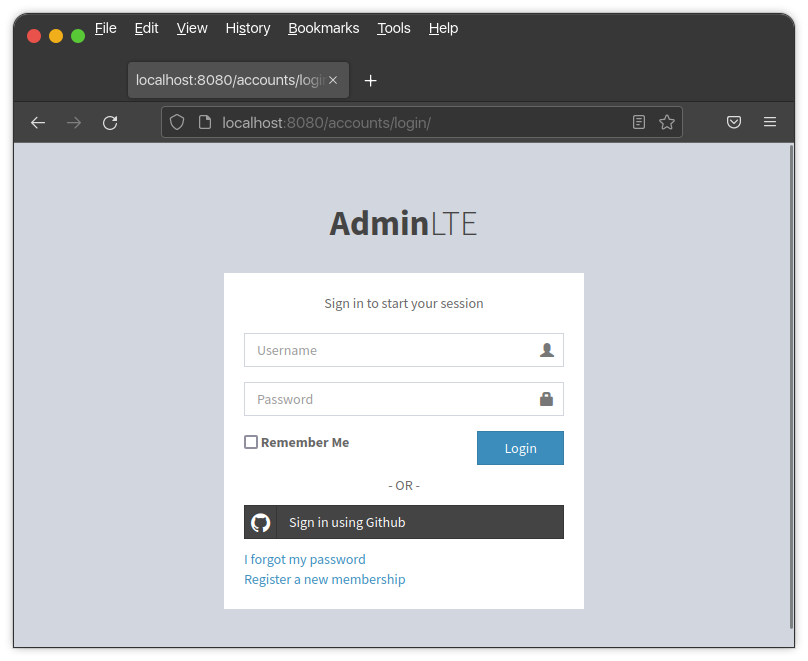
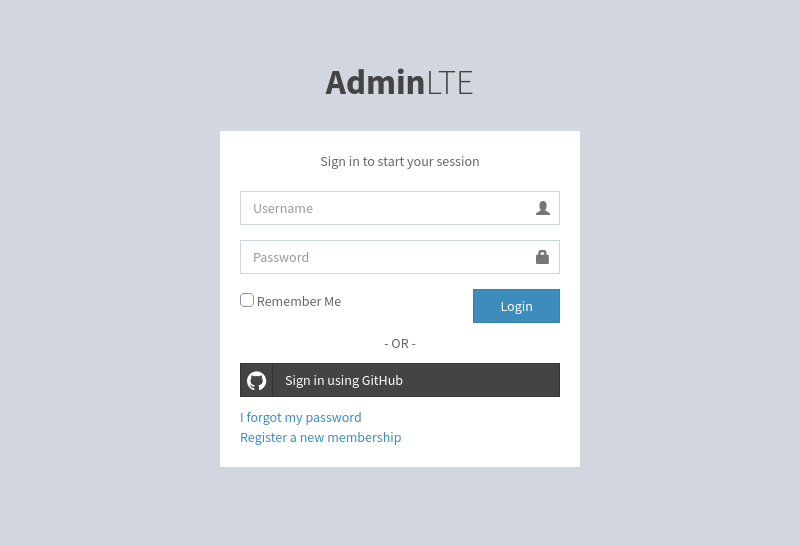
docs(templates): add template override examples with screenshots
Explain the two kinds of blocks: page blocks in adminlte2/base.html, and
blocks in the header, sidebar, and footer templates, which base.html
includes, so a page can't override them and a project overrides the
partial template instead.

Add examples, each with before and after screenshots: more changes to the
login page (title, instructions, and the register link), a page, a page's
stylesheets and scripts, the footer, the user dropdown, and the sidebar
user panel. The login page screenshots are retaken to match.

Fixes #20
Fixes #21

diff --git a/docs/source/templates/templates.rst b/docs/source/templates/templates.rst
@@ -30,62 +30,348 @@ found on
     **django-adminlte2-pdq** app should be listed before any Django apps.
 
 
-Example Customization
-=====================
+Overriding Blocks
+=================
 
-To show just how easy it can be to use and customize templates in the
-**Django-AdminLTE2-PDQ** package, we can show an example. The following three steps
-document customizing the login page **social links** section.
+To change part of a package template, create a template with the same path in
+one of your project's template folders, extend the package's template, and
+override only the blocks you want to change. Django finds your template first,
+and ``{% extends %}`` with the same path then loads the package's template
+underneath it. A block left empty removes its content, a block with content
+replaces it, and ``{{ block.super }}`` keeps the original content in place.
 
-First, we can see what this page looks like by default:
+The package's templates have two kinds of blocks:
+
+* `Page Blocks`_ are in the template that a page extends. A page overrides
+  them in its own template.
+* `Partial Blocks`_ are in the header, sidebar, and footer templates. A
+  project overrides them once, for every page.
+
+Each example below shows the page before and after the change.
+
+
+Page Blocks
+===========
+
+Page blocks are for the parts of a page that change from page to page: the
+title, the page header, the breadcrumbs, the content, and the page's own
+stylesheets and scripts. Pages extend ``adminlte2/base.html``, and the pages
+for users who aren't logged in, such as the login page, extend
+``adminlte2/base_anonymous.html``.
+
+
+The Login Page
+--------------
+
+The login page is ``registration/login.html``. By default, it looks like this:
 
 .. image:: ../../img/template/django-adminlte2-pdq-login-template-original.png
-    :alt: Original default login page that comes with Django-AdminLTE2-PDQ
+    :alt: The package's default login page
 
-
-To change this page, we can create a template to override the original behavior:
+To change it:
 
 1.  Create ``registration/login.html`` in one of your Django project's
     `template <https://docs.djangoproject.com/en/dev/ref/settings/#templates>`_
-    folders, defined via the project settings file.
-2.  Extend the packages default ``registration/login.html`` by adding the
-    following line:
+    folders.
+2.  Extend the package's ``registration/login.html``:
 
     .. code:: html+django
 
         {% extends "registration/login.html" %}
 
-3.  Override the ``social_auth_links`` block. An empty block will remove the
-    original content. Alternatively, a block with content will replace the
-    original content.
+3.  Override the blocks to change.
 
-    **Example of "Social Link" Section Removal**
+**Removing the social links**
 
-    .. code:: html+django
+An empty ``social_auth_links`` block removes the social login buttons:
 
-        {% block social_auth_links %}{% endblock social_auth_links %}
+.. code:: html+django
 
-    .. image:: ../../img/template/django-adminlte2-pdq-login-template-no-social.png
-        :alt: Updated login page with no social links
+    {% extends "registration/login.html" %}
 
-    **Example of "Social Link" Section Replacement**
+    {% block social_auth_links %}{% endblock social_auth_links %}
 
-    .. code:: html+django
+.. image:: ../../img/template/django-adminlte2-pdq-login-template-no-social.png
+    :alt: The login page without the social login buttons
 
-        {% block social_auth_links %}
-          <div class="social-auth-links text-center">
-            <p>- OR -</p>
-            <a href="#" class="btn btn-block btn-social btn-github btn-flat">
-              <i class="fa fa-github"></i>
-              Sign in using Github
-            </a>
-          </div>
-        {% endblock social_auth_links %}
+**Replacing the social links**
 
-    .. image:: ../../img/template/django-adminlte2-pdq-login-template-github.png
-        :alt: Updated login page with GitHub as the social link.
+A ``social_auth_links`` block with content replaces the buttons:
+
+.. code:: html+django
+
+    {% extends "registration/login.html" %}
+
+    {% block social_auth_links %}
+      <div class="social-auth-links text-center">
+        <p>- OR -</p>
+        <a href="#" class="btn btn-block btn-social btn-github btn-flat">
+          <i class="fa fa-github"></i>
+          Sign in using GitHub
+        </a>
+      </div>
+    {% endblock social_auth_links %}
+
+.. image:: ../../img/template/django-adminlte2-pdq-login-template-github.png
+    :alt: The login page with a GitHub sign-in button
+
+**Changing several parts**
+
+One template can override as many blocks as needed. This one changes the page
+title shown in the browser tab, changes the instructions, removes the social
+links, and removes the "Register a new membership" link, for a site that
+doesn't let users register themselves:
+
+.. code:: html+django
+
+    {% extends "registration/login.html" %}
+
+    {% block title %}Sign In | Example Company{% endblock title %}
+
+    {% block anonymous_form_instructions %}
+      <p class="login-box-msg">Sign in with your Example Company account</p>
+    {% endblock anonymous_form_instructions %}
+
+    {% block social_auth_links %}{% endblock social_auth_links %}
+
+    {% block anonymous_links %}
+      <a href="{% url 'password_reset' %}">I forgot my password</a>
+    {% endblock anonymous_links %}
+
+.. image:: ../../img/template/django-adminlte2-pdq-login-template-more.png
+    :alt: The login page with new instructions, no social links, and no register link
+
+The other pages for users who aren't logged in, such as the password reset
+pages, extend ``adminlte2/base_anonymous.html`` and have the same blocks.
 
 
-Reminder to reference the
-`GitHub files <https://github.com/DJBarnes/django-adminlte2-pdq/tree/main/adminlte2_pdq/templates>`_
-to see all possible package templates that can be overridden.
+A Page
+------
+
+A page template extends ``adminlte2/base.html`` and overrides its page
+blocks. With no blocks overridden, a page has the header, sidebar, and footer,
+and nothing else:
+
+.. code:: html+django
+
+    {% extends "adminlte2/base.html" %}
+
+.. image:: ../../img/template/django-adminlte2-pdq-page-original.png
+    :alt: A page with no blocks overridden
+
+This page sets the title shown in the browser tab, the page name and
+description, the breadcrumbs, and the content:
+
+**reports/monthly_report.html**
+
+.. code:: html+django
+
+    {% extends "adminlte2/base.html" %}
+
+    {% block title %}Monthly Report | Example Company{% endblock title %}
+
+    {% block page_name %}Monthly Report{% endblock page_name %}
+
+    {% block page_description %}November 2026{% endblock page_description %}
+
+    {% block breadcrumbs %}
+      <ol class="breadcrumb">
+        <li><a href="{% url 'adminlte2_pdq:home' %}"><i class="fa fa-dashboard"></i> Home</a></li>
+        <li class="active">Monthly Report</li>
+      </ol>
+    {% endblock breadcrumbs %}
+
+    {% block content %}
+      <div class="box box-primary">
+        <div class="box-header with-border">
+          <h3 class="box-title">Orders</h3>
+        </div>
+        <div class="box-body">
+          <p class="report-total">1,204</p>
+          <p id="report-updated"></p>
+        </div>
+      </div>
+    {% endblock content %}
+
+.. image:: ../../img/template/django-adminlte2-pdq-page-custom.png
+    :alt: The monthly report page with a title, breadcrumbs, and content
+
+To show a page in the sidebar, add it to the menu (see :doc:`../menu/general_information`).
+
+
+A Page's Stylesheets and Scripts
+--------------------------------
+
+The ``page_stylesheets`` block is in the page's ``<head>``, after the
+package's stylesheets, so its styles win. The ``page_javascript_body`` block
+is at the end of the ``<body>``, after the page's content. Both are empty in
+``adminlte2/base.html``. ``{{ block.super }}`` keeps whatever a parent
+template puts in them, so the page still works if it later extends a project
+template that adds its own.
+
+These blocks, added to the monthly report page above, make the total larger
+and show when the page was loaded:
+
+**reports/monthly_report.html**
+
+.. code:: html+django
+
+    {% extends "adminlte2/base.html" %}
+    {% load static %}
+
+    {# The blocks from the previous example. #}
+
+    {% block page_stylesheets %}
+      {{ block.super }}
+      <link rel="stylesheet" href="{% static 'reports/css/report.css' %}">
+    {% endblock page_stylesheets %}
+
+    {% block page_javascript_body %}
+      {{ block.super }}
+      <script src="{% static 'reports/js/report.js' %}"></script>
+    {% endblock page_javascript_body %}
+
+**reports/css/report.css**
+
+.. code:: css
+
+    .report-total {
+      font-size: 3em;
+      font-weight: bold;
+      color: #00a65a;
+    }
+
+**reports/js/report.js**
+
+.. code:: javascript
+
+    document.getElementById("report-updated").textContent = "Updated " + new Date().toLocaleDateString();
+
+Before, as in the previous example:
+
+.. image:: ../../img/template/django-adminlte2-pdq-page-custom.png
+    :alt: The monthly report page without its stylesheet and script
+
+After:
+
+.. image:: ../../img/template/django-adminlte2-pdq-page-assets.png
+    :alt: The monthly report page with a large green total and an updated date
+
+For styles and scripts on every page, override
+``adminlte2/partials/_styles.html`` or ``adminlte2/partials/_scripts.html``
+(see :ref:`configuration/front_end_styling:Template Blocks`).
+
+
+Partial Blocks
+==============
+
+The header, sidebar, and footer are in partial templates, which
+``adminlte2/base.html`` includes:
+
+* ``adminlte2/partials/_main_header.html``
+* ``adminlte2/partials/_main_sidebar.html``
+* ``adminlte2/partials/_main_footer.html``
+
+Django renders an included template on its own, with no access to the blocks
+of the template that includes it. So a page template that overrides a block
+from a partial, such as ``version_number``, has no effect. To change one of
+these blocks, override the partial template itself. The change applies to
+every page.
+
+A page can still replace a whole partial: ``adminlte2/base.html`` includes
+each one inside a block (``nav_header``, ``nav_sidebar``, and ``nav_footer``),
+so a page can override that block to include a different template, or leave
+it empty to remove the header, sidebar, or footer from that page.
+
+
+The Footer
+----------
+
+The footer shows a copyright with the current year, and a version number that
+defaults to 0.1:
+
+.. image:: ../../img/template/django-adminlte2-pdq-footer-original.png
+    :alt: The default footer
+
+Its blocks are in ``adminlte2/partials/_main_footer.html``, so override that
+template. This one sets the copyright text and the version number on every
+page:
+
+**adminlte2/partials/_main_footer.html**
+
+.. code:: html+django
+
+    {% extends "adminlte2/partials/_main_footer.html" %}
+
+    {% block legal %}
+      <strong>Copyright &copy; {% now "Y" %} Example Company.</strong> All rights reserved.
+    {% endblock legal %}
+
+    {% block version_number %}2.4.1{% endblock version_number %}
+
+.. image:: ../../img/template/django-adminlte2-pdq-footer-custom.png
+    :alt: The footer with a company copyright and version 2.4.1
+
+
+The User Dropdown
+-----------------
+
+Clicking the user's name in the top right opens a dropdown with "Change
+password" and "Sign out" buttons:
+
+.. image:: ../../img/template/django-adminlte2-pdq-user-dropdown-original.png
+    :alt: The default user dropdown
+
+Its blocks are in ``adminlte2/partials/_main_header.html``. This one replaces
+the "Change password" button with a "Profile" button, for a site whose profile
+page links to the password change page. Here, ``profile`` is the URL name of
+your project's profile view:
+
+**adminlte2/partials/_main_header.html**
+
+.. code:: html+django
+
+    {% extends "adminlte2/partials/_main_header.html" %}
+
+    {% block user_footer_left_button %}
+      <div class="pull-left">
+        <a href="{% url 'profile' %}" class="btn btn-default btn-flat">Profile</a>
+      </div>
+    {% endblock user_footer_left_button %}
+
+.. image:: ../../img/template/django-adminlte2-pdq-user-dropdown-custom.png
+    :alt: The user dropdown with a Profile button
+
+The dropdown only has room for two buttons side by side. A third one wraps
+onto a new line.
+
+
+The Sidebar User Panel
+----------------------
+
+The top of the sidebar shows the user's picture and name:
+
+.. image:: ../../img/template/django-adminlte2-pdq-sidebar-original.png
+    :alt: The sidebar with the user panel
+
+Its blocks are in ``adminlte2/partials/_main_sidebar.html``. An empty
+``sb_user_panel`` block removes the panel, and the menu moves up:
+
+**adminlte2/partials/_main_sidebar.html**
+
+.. code:: html+django
+
+    {% extends "adminlte2/partials/_main_sidebar.html" %}
+
+    {% block sb_user_panel %}{% endblock sb_user_panel %}
+
+.. image:: ../../img/template/django-adminlte2-pdq-sidebar-custom.png
+    :alt: The sidebar without the user panel
+
+
+All Templates and Blocks
+========================
+
+See the
+`package's templates on GitHub <https://github.com/DJBarnes/django-adminlte2-pdq/tree/main/adminlte2_pdq/templates>`_
+for every template and block that can be overridden.

diff --git a/docs/source/version_history.rst b/docs/source/version_history.rst
@@ -4,6 +4,13 @@ Version History
 Unreleased
 ==========
 
+* Documentation: the :doc:`templates/templates` page explains the difference
+  between page blocks and blocks in the header, sidebar, and footer
+  templates, which a page can't override. It has new examples for the login
+  page, a page, a page's stylesheets and scripts, the footer, the user
+  dropdown, and the sidebar user panel, each with before and after
+  screenshots.
+
 * Under the strict policy, the ``adminlte2_pdq.W001`` system check now lists
   function-based views without a decorator, as it already did class-based
   views without a mixin. It uses the same rules as the middleware's warnings
